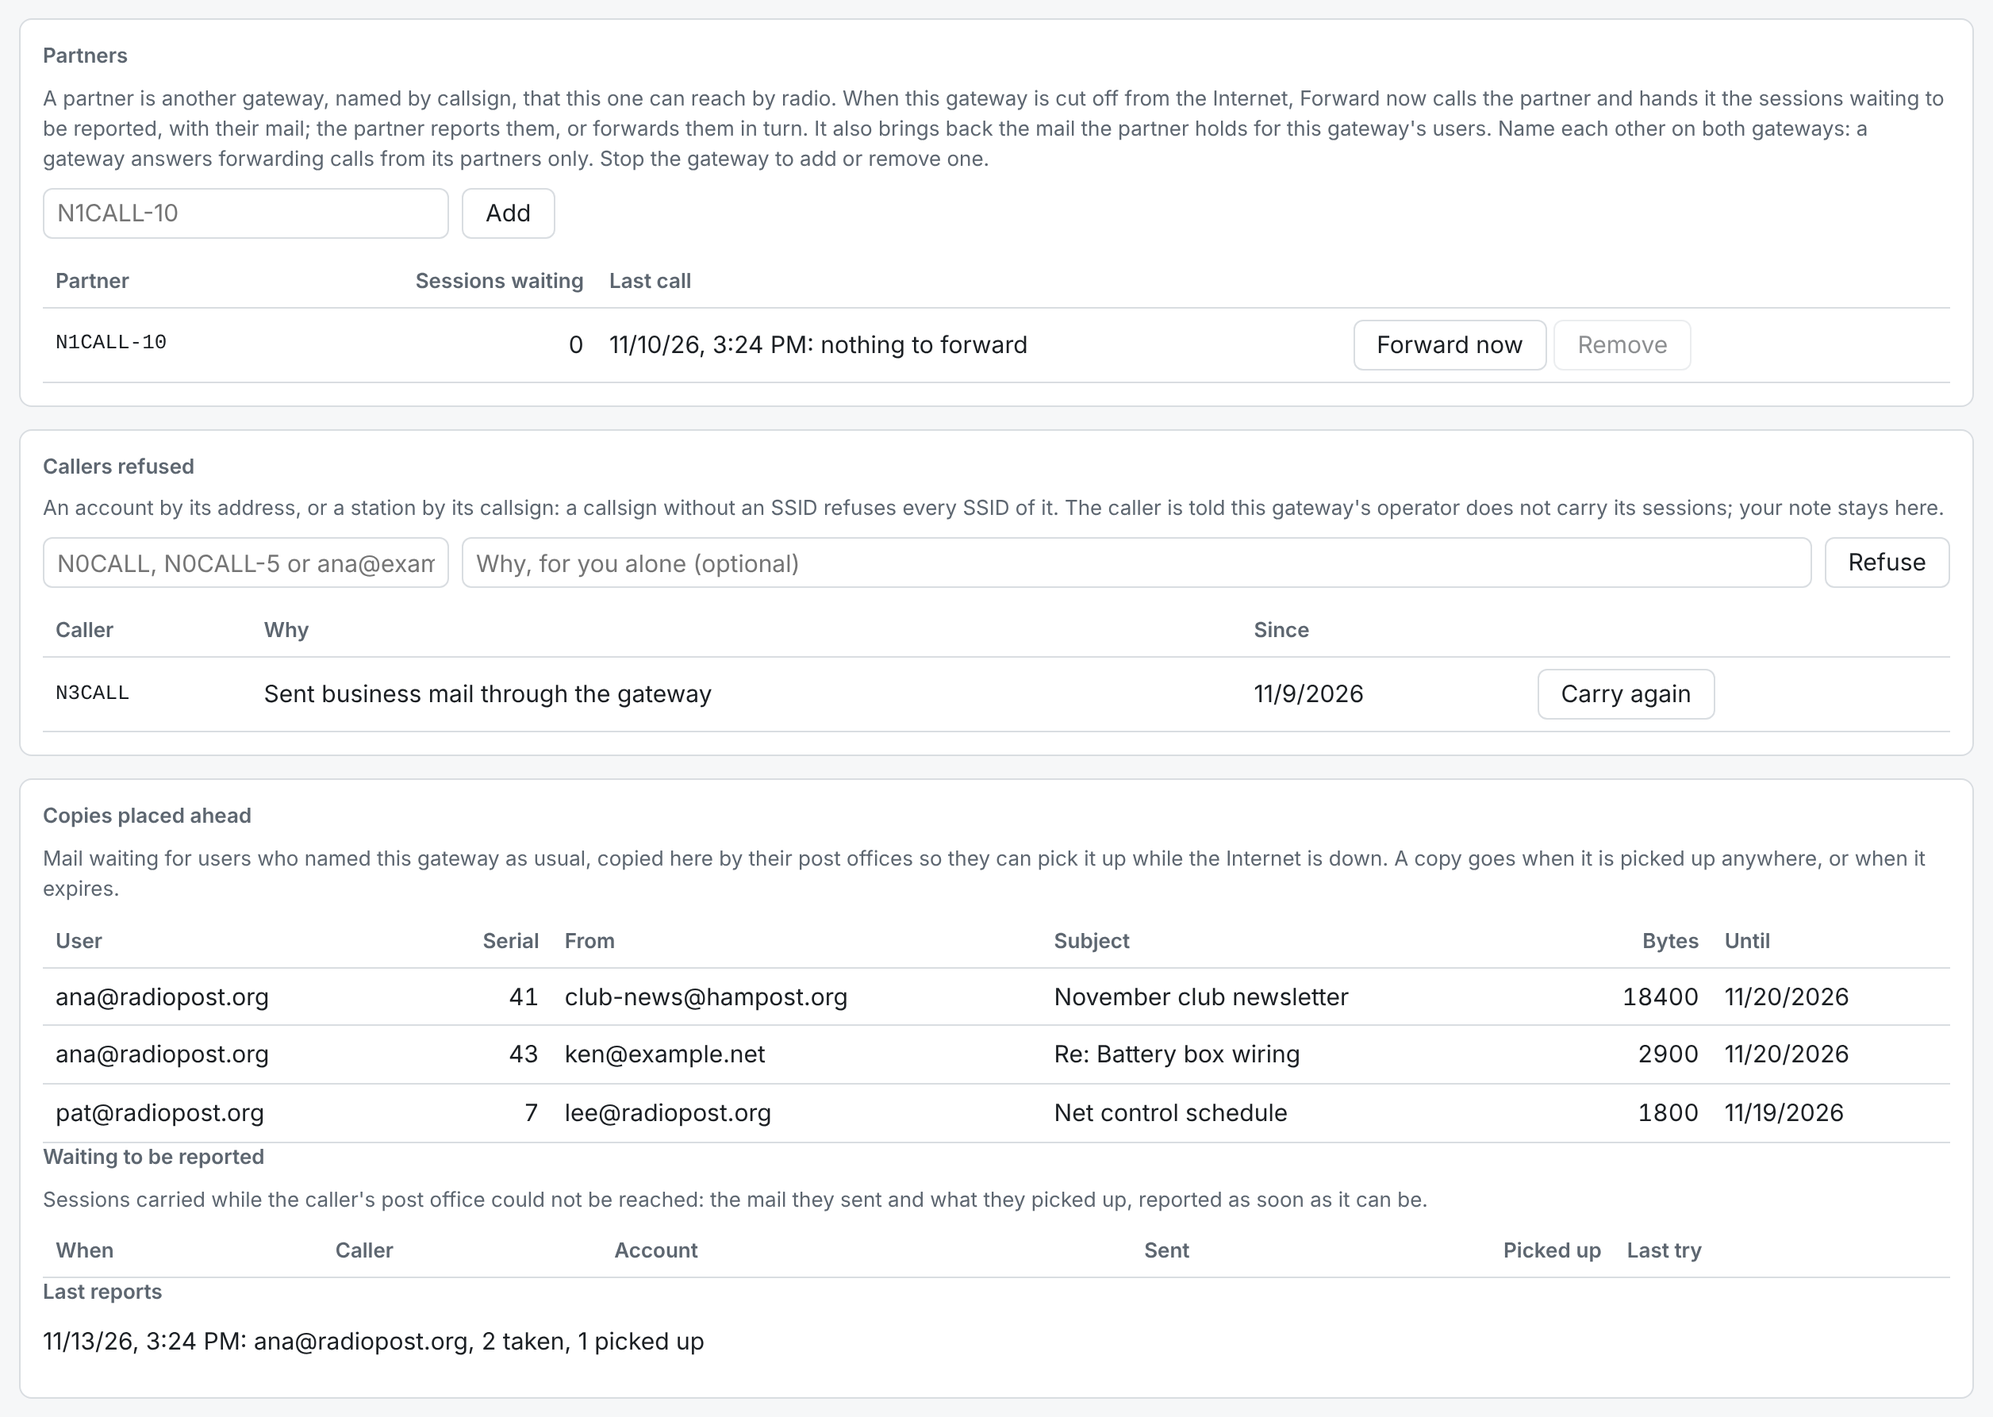
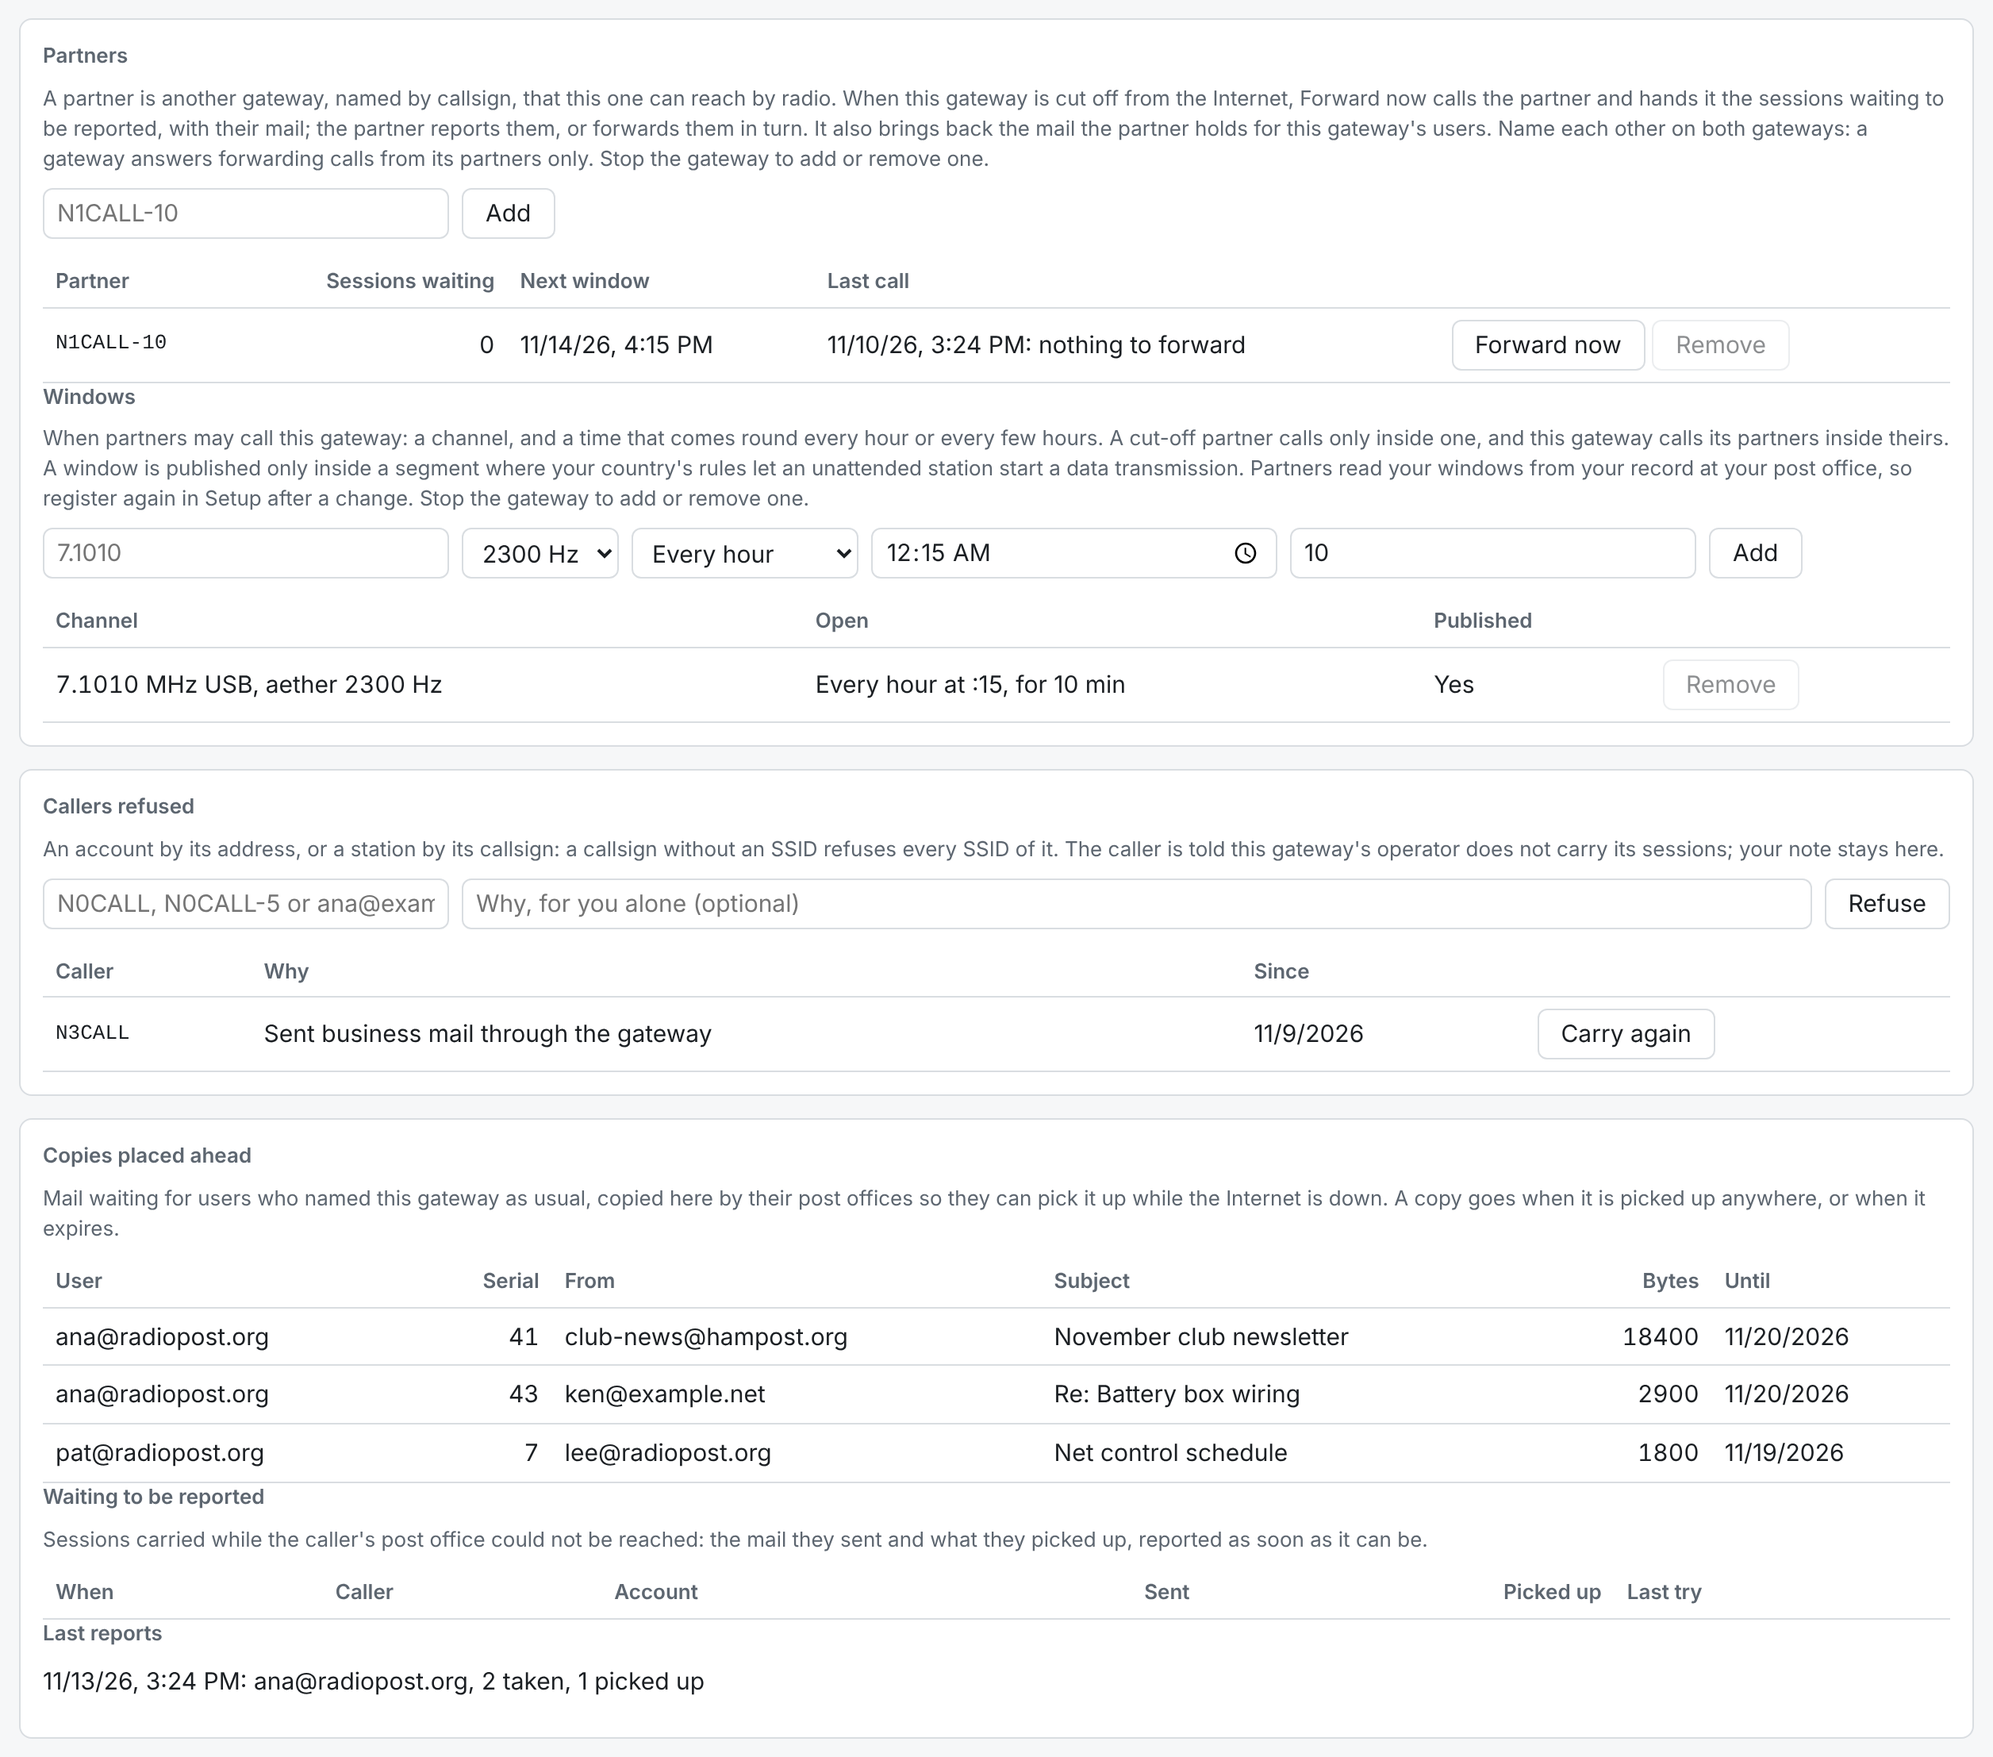
feat(gateway): windows in the panel, and each partner's next window
The Partners view gains Windows: the gateway's own windows, added with a
dial, Aether's bandwidth, how often, when and for how long, refused when
the country's segments do not allow them, each shown with whether it
may be published, and removed. The partners list shows when each
partner's next window opens, from the gateway lists it keeps.

Claude-Session: https://claude.ai/code/session_01QyQUNA1bfwmCvJ3bJ9oTda

Changed region(s): [[0.0, 0.0308, 0.9626, 1.0], [0.7452, 0.8623, 0.8694, 0.9239], [0.8384, 0.1848, 0.8694, 0.2156]]

diff --git a/app/gateway/ui/app.js b/app/gateway/ui/app.js
@@ -331,7 +331,11 @@ async function refreshPartners() {
     const waiting = (p.records
       ? `${p.records}${p.messages ? ` (${p.messages} ${p.messages === 1 ? "message" : "messages"})` : ""}`
       : "0") + held;
-    [p.callsign, waiting, last].forEach((text, i) => {
+    const at = Date.now() / 1000;
+    const next = p.next_window == null
+      ? "None published"
+      : p.next_window <= at ? "Open now" : when(p.next_window);
+    [p.callsign, waiting, next, last].forEach((text, i) => {
       const td = document.createElement("td");
       td.textContent = text;
       if (i === 0) td.className = "mono";
@@ -359,6 +363,49 @@ async function refreshPartners() {
     return tr;
   }));
   $("partner-rows").closest(".table-wrap").hidden = list.length === 0;
+}
+
+// the gateway's own windows (RP-7 §5): when its partners may call it
+const EVERY = {3600: "Every hour", 10800: "Every 3 hours", 21600: "Every 6 hours",
+  43200: "Every 12 hours", 86400: "Every day"};
+const two = (n) => String(n).padStart(2, "0");
+
+function schedule(w) {
+  const every = EVERY[w.every_s] || `Every ${w.every_s} s`;
+  const minutes = two(Math.floor(w.at_s / 60) % 60);
+  const at = w.every_s === 3600
+    ? `at :${minutes}`
+    : `at ${two(Math.floor(w.at_s / 3600) % 24)}:${minutes} UTC`;
+  return `${every} ${at}, for ${Math.round(w.length_s / 60)} min`;
+}
+
+async function refreshWindows() {
+  const list = await api("windows");
+  $("window-rows").replaceChildren(...list.map((w, i) => {
+    const tr = document.createElement("tr");
+    const c = w.channel;
+    const channel = `${(c.dial_hz / 1e6).toFixed(4)} MHz ${c.mode}, ${c.modem} ${c.bandwidth_hz} Hz`;
+    const published = w.why ? `No: ${w.why}` : "Yes";
+    [channel, schedule(w), published].forEach((text) => {
+      const td = document.createElement("td");
+      td.textContent = text;
+      tr.append(td);
+    });
+    const td = document.createElement("td");
+    const drop = document.createElement("button");
+    drop.className = "quiet";
+    drop.textContent = "Remove";
+    drop.title = "Take this window off; register again in Setup to publish the change";
+    drop.disabled = !!(state && state.running);
+    drop.addEventListener("click", () => act("windows", {remove: i + 1}, () => {
+      toast("Window removed. Register again in Setup to publish the change.");
+      refreshWindows();
+    }));
+    td.append(drop);
+    tr.append(td);
+    return tr;
+  }));
+  $("window-rows").closest(".table-wrap").hidden = list.length === 0;
 }
 
 async function refreshSessions() {
@@ -412,6 +459,7 @@ async function tick() {
       await refreshHeld();
       await refreshRefused();
       await refreshPartners();
+      if (!$("partners-view").hidden) await refreshWindows();
     } else if (shownSessions < 0) {
       await refreshSessions();
     }
@@ -463,7 +511,29 @@ $("refuse-form").addEventListener("submit", (e) => {
 $("partners-open").addEventListener("click", () => {
   $("partners-view").hidden = !$("partners-view").hidden;
   $("partners-open").textContent = $("partners-view").hidden ? "Show" : "Hide";
-  if (!$("partners-view").hidden) refreshPartners();
+  if (!$("partners-view").hidden) {
+    refreshPartners();
+    refreshWindows();
+  }
+});
+$("window-form").addEventListener("submit", (e) => {
+  e.preventDefault();
+  const f = e.currentTarget;
+  const every = Number(f.every.value);
+  const [h, m] = f.at.value.split(":").map(Number);
+  const add = {
+    dial_hz: Math.round(Number(f.dial.value.replace(",", ".")) * 1e6),
+    mode: "USB",
+    modem: "aether",
+    bandwidth_hz: Number(f.bandwidth.value),
+    every_s: every,
+    at_s: (h * 3600 + m * 60) % every,
+    length_s: Number(f.length.value) * 60,
+  };
+  act("windows", {add}, () => {
+    toast("Window added. Register again in Setup to publish it.");
+    refreshWindows();
+  });
 });
 $("partner-form").addEventListener("submit", (e) => {
   e.preventDefault();

diff --git a/app/gateway/ui/index.html b/app/gateway/ui/index.html
@@ -71,8 +71,22 @@
           <button type="submit" title="Name this gateway as a partner">Add</button>
         </form>
         <div class="table-wrap"><table class="list" aria-label="Partners">
-          <thead><tr><th>Partner</th><th class="n" title="Sessions waiting to go to the partner, and the messages the post office gave this gateway to hold for it">Sessions waiting</th><th>Last call</th><th></th></tr></thead>
+          <thead><tr><th>Partner</th><th class="n" title="Sessions waiting to go to the partner, and the messages the post office gave this gateway to hold for it">Sessions waiting</th><th title="When the partner's next window opens, from its record at its post office: cut off, this gateway calls it then by itself (RP-7 §5)">Next window</th><th>Last call</th><th></th></tr></thead>
           <tbody id="partner-rows"></tbody>
+        </table></div>
+        <h2 title="When this gateway listens for its partners' calls (RP-7 §5)">Windows</h2>
+        <p class="note">When partners may call this gateway: a channel, and a time that comes round every hour or every few hours. A cut-off partner calls only inside one, and this gateway calls its partners inside theirs. A window is published only inside a segment where your country's rules let an unattended station start a data transmission. Partners read your windows from your record at your post office, so register again in Setup after a change. Stop the gateway to add or remove one.</p>
+        <form class="row" id="window-form">
+          <input name="dial" required inputmode="decimal" placeholder="7.1010" title="The dial frequency in MHz, upper sideband" autocomplete="off">
+          <select name="bandwidth" class="narrow" title="Aether's bandwidth"><option value="2300">2300 Hz</option><option value="500">500 Hz</option></select>
+          <select name="every" class="narrow" title="How often the window opens"><option value="3600">Every hour</option><option value="10800">Every 3 hours</option><option value="21600">Every 6 hours</option><option value="43200">Every 12 hours</option><option value="86400">Every day</option></select>
+          <input name="at" required type="time" value="00:15" title="When it opens, UTC. Every hour: only the minutes count">
+          <input name="length" required type="number" min="1" max="1440" value="10" title="How long it stays open, minutes">
+          <button type="submit" title="Add this window">Add</button>
+        </form>
+        <div class="table-wrap"><table class="list" aria-label="Windows">
+          <thead><tr><th>Channel</th><th>Open</th><th title="Whether your country's rules let an unattended station use it (RP-7 §5.1)">Published</th><th></th></tr></thead>
+          <tbody id="window-rows"></tbody>
         </table></div>
       </section>
 

diff --git a/core/gateway/src/panel.rs b/core/gateway/src/panel.rs
@@ -239,6 +239,42 @@ impl Panel {
         Ok(partners(dir))
     }
 
+    /// The gateway's own windows (RP-7 §5), added and removed while it is stopped; published at
+    /// its next registration.
+    fn windows_api(&self, body: &Value) -> Result<Value, String> {
+        self.stopped()?;
+        let dir = self.runner.dir();
+        let mut s = Settings::load(dir)?;
+        if let Some(n) = body["remove"].as_u64() {
+            let i = usize::try_from(n).unwrap_or(0);
+            if i == 0 || i > s.windows.len() {
+                return Err(format!("there is no window {n}"));
+            }
+            s.windows.remove(i - 1);
+        } else {
+            let a = &body["add"];
+            let n = |k: &str| {
+                a[k].as_u64()
+                    .ok_or_else(|| format!("the window's {k} is missing"))
+            };
+            let window = station::WindowSettings {
+                dial_hz: n("dial_hz")?,
+                mode: a["mode"].as_str().unwrap_or("USB").to_owned(),
+                modem: a["modem"].as_str().unwrap_or("aether").to_owned(),
+                bandwidth_hz: n("bandwidth_hz")?,
+                every_s: n("every_s")?,
+                at_s: n("at_s")?,
+                length_s: n("length_s")?,
+            };
+            if let Some(why) = window.refused(&s.country) {
+                return Err(format!("This window cannot be published: {why}."));
+            }
+            s.windows.push(window);
+        }
+        s.save(dir)?;
+        Ok(windows(dir))
+    }
+
     fn api(&self, method: &Method, path: &str, query: &str, body: &Value) -> Result<Value, String> {
         let param = |name: &str| {
             query
@@ -281,6 +317,9 @@ impl Panel {
             // partners (RP-7 §1, §2)
             (Method::Get, "/api/partners") => Ok(partners(dir)),
             (Method::Post, "/api/partners" | "/api/forward") => self.partners_api(path, body),
+            // its windows, when partners may call it (RP-7 §5)
+            (Method::Get, "/api/windows") => Ok(windows(dir)),
+            (Method::Post, "/api/windows") => self.windows_api(body),
             (Method::Post, "/api/setup") => {
                 self.stopped()?;
                 self.setup(body)?;
@@ -568,7 +607,8 @@ fn copies_of(v: &Value) -> Result<Option<station::CopiesSettings>, String> {
     }
 }
 
-/// The partners, each with how the last call to it went and what waits for it (RP-7 §1, §3.2).
+/// The partners, each with how the last call to it went, what waits for it, and when its next
+/// window opens, from the gateway lists it keeps (RP-7 §1, §3.2, §5).
 fn partners(dir: &std::path::Path) -> Value {
     let settings = Settings::load(dir).ok();
     let s = crate::store::Store::load(dir);
@@ -576,6 +616,16 @@ fn partners(dir: &std::path::Path) -> Value {
         .as_ref()
         .map(|x| x.callsign.clone())
         .unwrap_or_default();
+    let country = settings
+        .as_ref()
+        .map(|x| x.country.clone())
+        .unwrap_or_default();
+    let own = station::identity(dir)
+        .ok()
+        .and_then(|(_, a)| radiopost::credential::Credential::decode(&a.credential))
+        .map(|c| c.body.domain())
+        .unwrap_or_default();
+    let now = station::now();
     let list: Vec<Value> = settings
         .map(|x| x.partners)
         .unwrap_or_default()
@@ -583,13 +633,35 @@ fn partners(dir: &std::path::Path) -> Value {
         .map(|p| {
             let state = s.partners.get(&p.callsign).cloned().unwrap_or_default();
             let (records, messages) = crate::forward::outbox(&s, &me, &p.callsign);
+            let next = s
+                .record_of(&own, &p.callsign)
+                .map(|r| crate::forward::windows_of(&r, &country))
+                .and_then(|ws| ws.iter().map(|w| w.next(now)).min());
             json!({"callsign": p.callsign, "called": state.called, "said": state.said,
                    "online": state.online, "cursor": state.cursor,
                    "records": records.len(), "messages": messages.len(),
-                   "forwards": s.forwards_for(&p.callsign, 0).len()})
+                   "forwards": s.forwards_for(&p.callsign, 0).len(), "next_window": next})
         })
         .collect();
     json!(list)
+}
+
+/// The gateway's own windows, each with whether its country's rules let it publish it (RP-7 §5,
+/// §5.1).
+fn windows(dir: &std::path::Path) -> Value {
+    let Ok(s) = Settings::load(dir) else {
+        return json!([]);
+    };
+    json!(
+        s.windows
+            .iter()
+            .map(|w| {
+                let mut v = w.record();
+                v["why"] = w.refused(&s.country).map_or(Value::Null, Value::from);
+                v
+            })
+            .collect::<Vec<_>>()
+    )
 }
 
 fn text<'a>(body: &'a Value, name: &str) -> &'a str {

diff --git a/docs/manual/manual.md b/docs/manual/manual.md
@@ -5,7 +5,7 @@
 | | |
 |---|---|
 | **Status** | Current |
-| **Version** | 1.0.0 |
+| **Version** | 1.1.0 |
 | **Updated** | 2026-11-15 |
 | **Describes** | RadioPost 0.1.0-beta.20 |
 | **Licence** | CC BY 4.0 |
@@ -913,10 +913,29 @@ every session waiting to be reported. Both gateways must be on the same channel.
 reports them to the post offices, or forwards them on if it is cut off too. In the same call the
 partner hands back mail its post office gave it for this gateway's users.
 
-The gateway can also call a partner by itself while it is cut off, during the partner's
-**windows**: times when the partner listens for forwarding calls. Windows are set on the command
-line for now ([section 23](#23-a-gateway-with-no-screen)): `radiopost-gateway window --dial MHZ
---bandwidth HZ --every S --at S --length S`, then register again to publish them.
+**Windows** are the times a gateway listens for its partners' calls: a channel, and a time that
+comes round every hour or every few hours. To set this gateway's own:
+
+1. **Stop** the gateway, and open the **Partners** view.
+2. Under **Windows**, type the dial in MHz (upper sideband), choose Aether's bandwidth, how often
+   the window opens, when (UTC; for every hour only the minutes count), and for how many minutes.
+3. Click **Add**. A window is refused when Aether's signal on it would not lie inside a segment
+   where the rules let an unattended station start a data transmission; the message says why.
+   On 40 m, dials from 7.0998 to 7.1022 MHz fit at 2300 Hz.
+4. **Register again** in Setup: partners read your windows from your record at your post office.
+
+While it is cut off, the gateway calls each partner by itself during that partner's windows. It
+tries once, then twice more a minute apart if nobody answers, then waits for the next window. It
+never calls while Aether says the channel is busy, and it does not tune the radio: the partner's
+window must be on the channel your radio is on. The **Next window** column shows when each
+partner's next window opens (*None published* until the gateway has read the partner's record).
+If one partner reached the Internet at its last call and opens a window within the hour, the
+gateway keeps its sessions for that partner, and calls the others only to collect its users'
+mail.
+
+On the command line ([section 23](#23-a-gateway-with-no-screen)): `radiopost-gateway window
+--dial 7.101 --bandwidth 2300 --every 3600 --at 900 --length 600`, `windows`, and
+`window --remove 1`.
 
 ## 23. A gateway with no screen
 
@@ -1166,3 +1185,4 @@ manual in the same commit. The rule is in `CONTRIBUTING.md`.
 | Version | Date | Changes |
 |---|---|---|
 | 1.0.0 | 2026-11-15 | First edition: the client, RadioPost Gateway, and how they work with Aether HF. |
+| 1.1.0 | 2026-11-15 | §22: a gateway's own windows set in the Partners view, calls by itself in a partner's windows, the Next window column, and which partner gets the sessions. |
